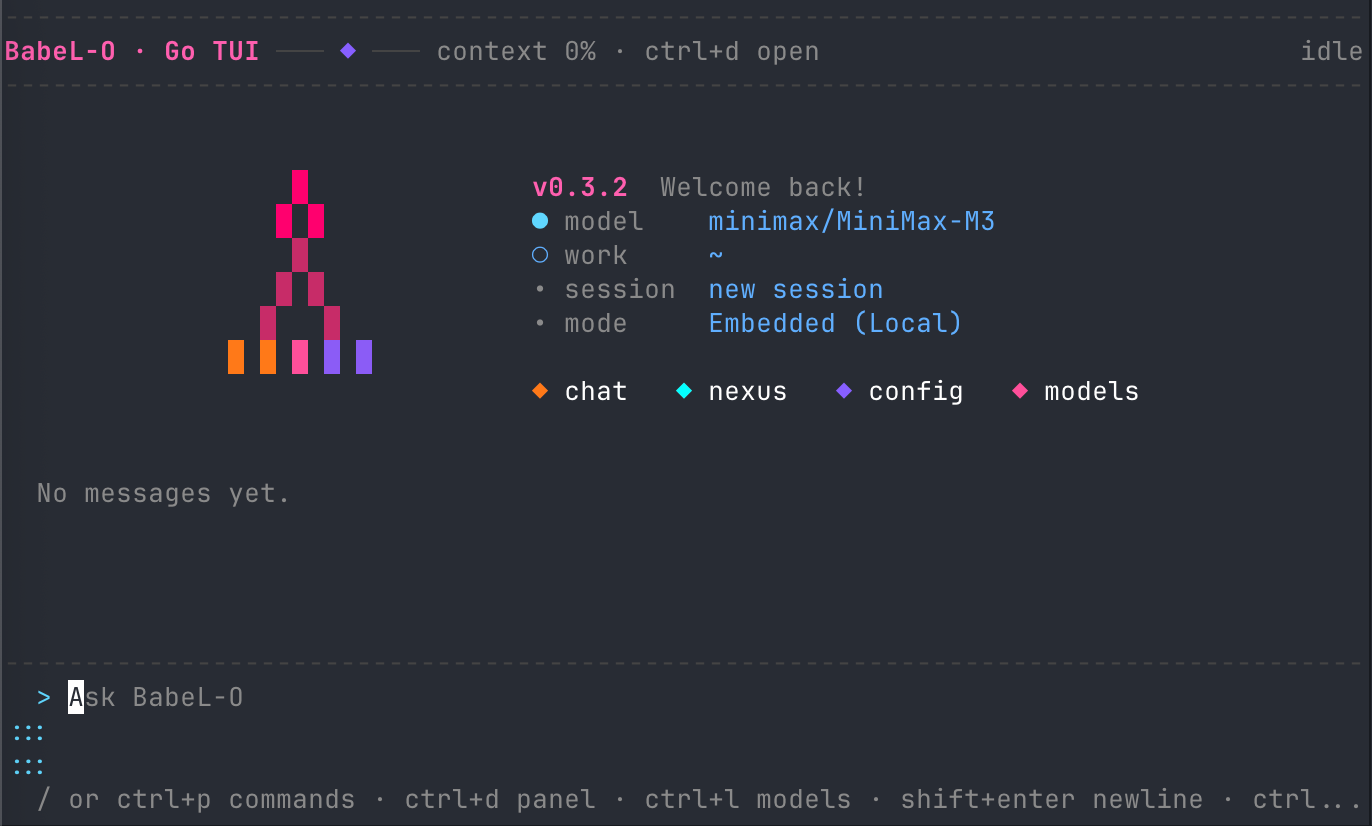
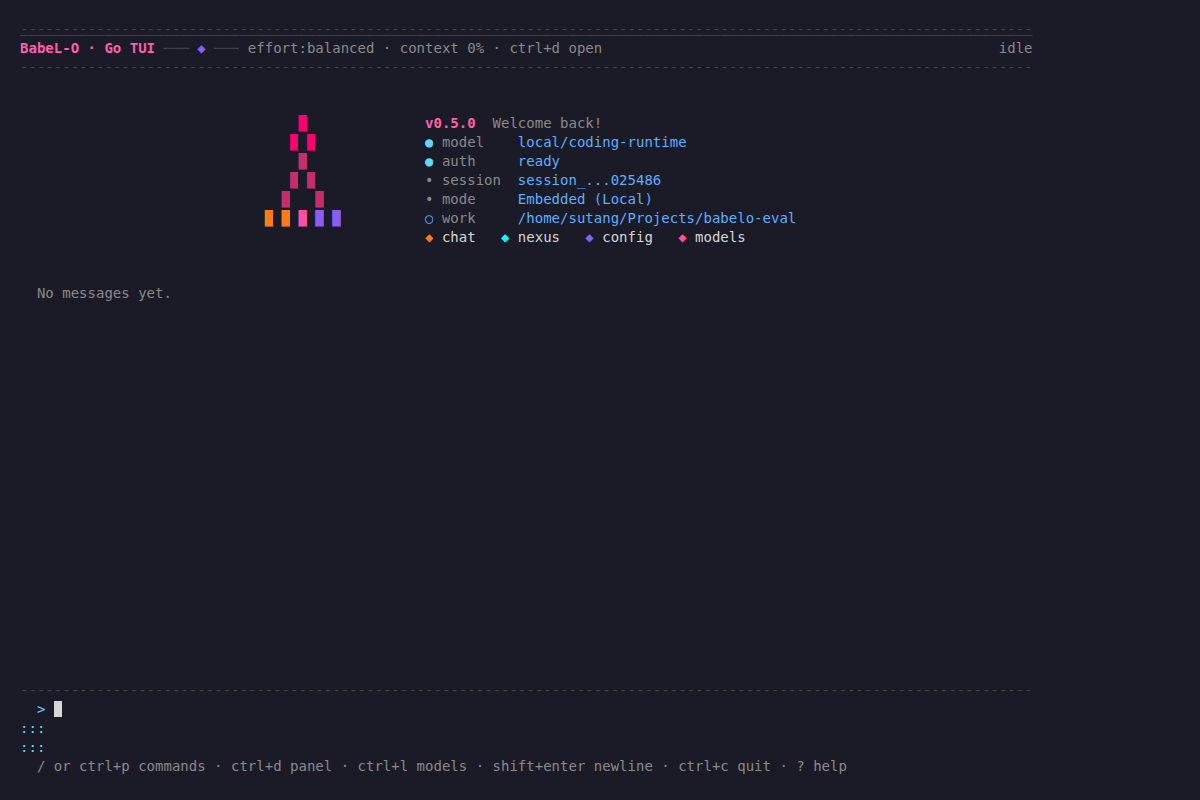
docs(readme): refresh v0.5.0 install path and product screenshot

diff --git a/README.md b/README.md
@@ -12,14 +12,13 @@
 
 <p align="center">
   <a href="https://github.com/SuTang-vain/BabeL-O/releases"><img src="https://img.shields.io/github/v/release/SuTang-vain/BabeL-O" alt="Latest release" /></a>
-  <a href="https://www.npmjs.com/package/babel-o"><img src="https://img.shields.io/npm/v/babel-o" alt="npm version" /></a>
   <a href="https://github.com/SuTang-vain/BabeL-O/actions/workflows/ci.yml"><img src="https://github.com/SuTang-vain/BabeL-O/actions/workflows/ci.yml/badge.svg" alt="CI status" /></a>
   <a href="CONTRIBUTING.md"><img src="https://img.shields.io/badge/contributions-welcome-brightgreen" alt="Contributions welcome" /></a>
   <a href="https://github.com/SuTang-vain/BabeL-O/discussions"><img src="https://img.shields.io/badge/discussions-open-blue" alt="GitHub Discussions" /></a>
 </p>
 
 <p align="center">
-  <img src="docs/assets/product.png" alt="BabeL-O Go TUI screenshot" width="860" />
+  <img src="docs/assets/product.png" alt="BabeL-O v0.5.0 Go TUI screenshot" width="860" />
 </p>
 
 [简体中文 README](README.zh-CN.md)
@@ -49,8 +48,9 @@ terminal into a fragile one-shot chat.
   and reconnect without losing tasks.
   *(Technical: worktree isolation + session persistence + WebSocket reconnect)*
 
-- **10MB standalone binary client** — `bbl go` is a Go TUI binary (~10MB) with no
-  Node.js dependency. Drop it in a container and run.
+- **Small standalone Go TUI client** — `bbl go` is a native Go TUI binary (~14MB).
+  The Nexus daemon still needs Node.js 22+ and native SQLite, so the client can
+  stay thin while sessions remain durable.
   *(Technical: Go Bubble Tea TUI + Node 22+ daemon with native SQLite)*
 
 - **Completes long tasks for real** — Context compaction, tool loop boundaries,
@@ -68,18 +68,35 @@ terminal into a fragile one-shot chat.
   sessions exchange findings, handoffs, decisions, and review requests without
   treating those messages as secret instructions.
 
+### Compaction and context (v0.5.0)
+
+v0.5.0 fixes compaction correctness by default: it reads the newest event
+window, keeps the current instruction, separates state and summary budgets, and
+records a message-based ledger. The default strategy is still `stock` — 90/70
+thresholds, a prose summary, the system boundary, and no retrieval.
+
+Adaptive compaction, deterministic digest, faithful digest, cache-aware
+thresholds, and retrieval pointers are available as opt-in experiments. They
+are not enabled by default, their cost benefits have not been established, and
+retrieval is not recommended for production. Use `/context` to inspect the
+current budget, compaction state, memory, and working set.
+
 ---
 
 ## Quick Start (5 minutes)
 
 > ⚠ **Requires Node.js >= 22.** If your Node is older, upgrade first.
-> For alternative installation methods, see [INSTALLATION.md](docs/INSTALLATION.md).
+> For source builds and platform details, see [INSTALLATION.md](docs/INSTALLATION.md).
 
 ```bash
-# Install globally
-npm install -g babel-o
+# Install the current release
+curl -fsSL https://raw.githubusercontent.com/SuTang-vain/BabeL-O/main/scripts/install.sh | \
+  BBL_VERSION=v0.5.0 bash
 
-# Initialize with interactive setup (coming soon: bbl config init)
+# First-time provider setup (interactive)
+bbl config init
+
+# Or configure non-interactively
 bbl config add anthropic "$ANTHROPIC_API_KEY"
 bbl config use anthropic/claude-sonnet-4-6
 
@@ -93,16 +110,18 @@ See [Common Commands](#common-commands) for more usage examples.
 
 ## Installation
 
-### Recommended: npm global install
+### Recommended: release installer
 
 ```bash
-npm install -g babel-o
+curl -fsSL https://raw.githubusercontent.com/SuTang-vain/BabeL-O/main/scripts/install.sh | \
+  BBL_VERSION=v0.5.0 bash
 bbl go
 ```
 
-Requirements: macOS or Linux, Node.js >= 22.
+Requirements: macOS or Linux, Node.js >= 22. The installer bundles the matching
+Go TUI binary and runs a post-install self-check.
 
-> For alternative installation methods (release installer, from source), see
+> For source builds and platform details, see
 > [INSTALLATION.md](docs/INSTALLATION.md).
 
 ---
@@ -176,7 +195,8 @@ bbl memory doctor
 BabeL-O stores local configuration in `~/.babel-o/config.json`.
 
 Supported providers include `anthropic`, `openai`, `deepseek`, `moonshot`,
-`ollama`, `zhipu`, `minimax`, and `local`.
+`ollama`, `zhipu`, `minimax`, and `local`, plus custom OpenAI-compatible
+providers.
 
 Useful checks:
 
@@ -205,12 +225,14 @@ tools, agents, memory, storage, and observability layers fit together, see
 
 ## Release Notes
 
-As of v0.3.7, the old `bbl chat` TypeScript TUI has been removed from the
-release package. The official interactive entrypoint is `bbl go`; `bbl run`
-remains available for one-shot automation.
+The current release is **v0.5.0** (2026-10-25). It fixes compaction correctness
+by default and adds opt-in compaction experiments; the stock defaults are
+unchanged. See [v0.5.0 release notes](docs/releases/v0.5.0.md) for flags and
+known limitations.
 
-This keeps the install smaller, removes duplicated terminal UI logic, and puts
-future interaction work into the native Go TUI.
+The legacy `bbl chat` TypeScript TUI was removed in v0.3.7. `bbl go` is the
+production interactive entrypoint; `bbl run` remains available for one-shot
+automation.
 
 ## Documentation
 

diff --git a/README.zh-CN.md b/README.zh-CN.md
@@ -12,14 +12,13 @@
 
 <p align="center">
   <a href="https://github.com/SuTang-vain/BabeL-O/releases"><img src="https://img.shields.io/github/v/release/SuTang-vain/BabeL-O" alt="Latest release" /></a>
-  <a href="https://www.npmjs.com/package/babel-o"><img src="https://img.shields.io/npm/v/babel-o" alt="npm version" /></a>
   <a href="https://github.com/SuTang-vain/BabeL-O/actions/workflows/ci.yml"><img src="https://github.com/SuTang-vain/BabeL-O/actions/workflows/ci.yml/badge.svg" alt="CI status" /></a>
   <a href="CONTRIBUTING.md"><img src="https://img.shields.io/badge/contributions-welcome-brightgreen" alt="Contributions welcome" /></a>
   <a href="https://github.com/SuTang-vain/BabeL-O/discussions"><img src="https://img.shields.io/badge/discussions-open-blue" alt="GitHub Discussions" /></a>
 </p>
 
 <p align="center">
-  <img src="docs/assets/product.png" alt="BabeL-O Go TUI 截图" width="860" />
+  <img src="docs/assets/product.png" alt="BabeL-O v0.5.0 Go TUI 截图" width="860" />
 </p>
 
 [English README](README.md)
@@ -46,8 +45,8 @@ bbl go
   后台 daemon 持有状态，客户端断线重连任务不丢。
   *(Technical: worktree isolation + session persistence + WebSocket reconnect)*
 
-- **10MB 无依赖客户端** —— `bbl go` 是 Go TUI 二进制（~10MB），无 Node 依赖，
-  丢到容器里就能跑。
+- **轻量独立 Go TUI 客户端** —— `bbl go` 是约 14MB 的原生 Go TUI 二进制；
+  Nexus daemon 仍需 Node.js 22+ 与原生 SQLite，客户端保持轻薄，会话状态仍然持久。
   *(Technical: Go Bubble Tea TUI + Node 22+ daemon with native SQLite)*
 
 - **真正能完成长任务** —— context compaction、tool loop 边界、权限治理、
@@ -63,18 +62,32 @@ bbl go
 - **跨 session 协作** —— `/session`、`/inbox` 和 SessionChannel 让不同 session 交换 findings、
   handoff、决策、review 请求，但不会把这些消息当作隐藏指令执行。
 
+### 压缩与上下文（v0.5.0）
+
+v0.5.0 默认修复压缩正确性：读取最新事件窗口、保留当前指令、state 与 summary
+使用独立预算，并记录消息级 ledger。默认策略仍是 `stock`：90/70 阈值、prose
+摘要、system boundary、无 retrieval。
+
+adaptive、确定性 digest、faithful digest、cache-aware 阈值和 retrieval 指针
+都是 opt-in 实验能力；默认不开启，成本收益尚未证明，retrieval 不推荐生产使用。
+用 `/context` 查看当前预算、压缩状态、记忆和 working set。
+
 ---
 
 ## 快速开始 (5 分钟)
 
 > ⚠ **要求 Node.js >= 22。** 如果你的 Node 版本较旧，请先升级。
-> 其他安装方式见 [安装指南](docs/INSTALLATION.md)。
+> 从源码构建与平台细节见 [安装指南](docs/INSTALLATION.md)。
 
 ```bash
-# 全局安装
-npm install -g babel-o
+# 安装当前 release
+curl -fsSL https://raw.githubusercontent.com/SuTang-vain/BabeL-O/main/scripts/install.sh | \
+  BBL_VERSION=v0.5.0 bash
 
-# 交互式初始化（即将推出：bbl config init）
+# 首次交互式配置
+bbl config init
+
+# 或非交互式配置
 bbl config add anthropic "$ANTHROPIC_API_KEY"
 bbl config use anthropic/claude-sonnet-4-6
 
@@ -88,16 +101,18 @@ bbl go
 
 ## 安装
 
-### 推荐：npm 全局安装
+### 推荐：release 安装脚本
 
 ```bash
-npm install -g babel-o
+curl -fsSL https://raw.githubusercontent.com/SuTang-vain/BabeL-O/main/scripts/install.sh | \
+  BBL_VERSION=v0.5.0 bash
 bbl go
 ```
 
-要求：macOS 或 Linux，Node.js >= 22。
+要求：macOS 或 Linux，Node.js >= 22。安装脚本会打包匹配的 Go TUI 二进制并执行
+安装后自检。
 
-> 其他安装方式（release 安装脚本、从源码构建）见
+> 从源码构建与平台细节见
 > [安装指南](docs/INSTALLATION.md)。
 
 ---
@@ -169,7 +184,7 @@ bbl memory doctor
 
 BabeL-O 的本地配置保存在 `~/.babel-o/config.json`。
 
-支持的 provider 包括 `anthropic`、`openai`、`deepseek`、`moonshot`、`ollama`、`zhipu`、`minimax` 和 `local`。
+支持的 provider 包括 `anthropic`、`openai`、`deepseek`、`moonshot`、`ollama`、`zhipu`、`minimax` 和 `local`，以及自定义 OpenAI-compatible provider。
 
 常用检查：
 
@@ -192,10 +207,12 @@ BabeL-O 围绕显式边界设计：
 
 ## Release 说明
 
-从 v0.3.7 开始，旧的 `bbl chat` TypeScript TUI 已从 release 包中移除。
-正式交互入口是 `bbl go`；`bbl run` 继续用于一次性自动化和脚本场景。
+当前 release 是 **v0.5.0**（2026-10-25）。它默认修复压缩正确性，并加入 opt-in
+压缩实验能力；stock 默认未变。各开关与已知限制见
+[v0.5.0 发布说明](docs/releases/v0.5.0.md)。
 
-这样可以减小安装包体积，移除重复的终端 UI 逻辑，并把后续交互体验集中到原生 Go TUI。
+旧的 `bbl chat` TypeScript TUI 已在 v0.3.7 移除。`bbl go` 是正式交互入口；
+`bbl run` 继续用于一次性自动化。
 
 ## 文档
 

diff --git a/docs/INSTALLATION.md b/docs/INSTALLATION.md
@@ -6,20 +6,9 @@ This guide covers all installation methods for BabeL-O.
 
 - **Operating System**: macOS or Linux
 - **Node.js**: Version 22 or higher (required for native SQLite support)
-- **Go** (optional): Version 1.23+ for building the Go TUI from source
+- **Go** (optional): Version 1.25+ for building the Go TUI from source
 
-## Method 1: npm Global Install (Recommended)
-
-The fastest way to get started:
-
-```bash
-npm install -g babel-o
-bbl go
-```
-
-This method is ideal for Node.js developers and CI/CD environments.
-
-## Method 2: Release Installer
+## Method 1: Release Installer (Recommended)
 
 The release installer downloads a lightweight package for your platform,
 installs the `bbl` launcher, bundles the matching Go TUI binary, and runs
@@ -33,10 +22,10 @@ bbl go
 ### Install a Specific Version
 
 ```bash
-curl -fsSL https://raw.githubusercontent.com/SuTang-vain/BabeL-O/main/scripts/install.sh | BBL_VERSION=v0.4.2 bash
+curl -fsSL https://raw.githubusercontent.com/SuTang-vain/BabeL-O/main/scripts/install.sh | BBL_VERSION=v0.5.0 bash
 ```
 
-## Method 3: From Source
+## Method 2: From Source
 
 For contributors and those who want the latest development version:
 
@@ -153,19 +142,16 @@ Node.js 22 or higher:
 node --version  # Should be v22.x.x or higher
 ```
 
-### Permission Errors
+### Installer Permission Errors
 
-If you get permission errors during npm install:
+If the release installer cannot write to the default paths, choose a writable
+install directory and HOME:
 
 ```bash
-# Option 1: Use sudo (not recommended for security)
-sudo npm install -g babel-o
-
-# Option 2: Configure npm to use a directory you own
-mkdir -p ~/.npm-global
-npm config set prefix '~/.npm-global'
-# Add to your shell profile:
-export PATH=~/.npm-global/bin:$PATH
+tmp="$(mktemp -d)"
+curl -fsSL https://raw.githubusercontent.com/SuTang-vain/BabeL-O/main/scripts/install.sh | \
+  BBL_VERSION=v0.5.0 BBL_INSTALL_DIR="$tmp/bin" HOME="$tmp/home" bash
+"$tmp/bin/bbl" --version
 ```
 
 ### Go TUI Not Found
@@ -176,8 +162,8 @@ If the Go TUI binary is missing after installation:
 # Rebuild the Go TUI
 cd clients/go-tui && make build
 
-# Or use the TypeScript fallback
-npx tsx src/cli/program.ts go
+# Or run the source CLI (from a source checkout)
+npm run cli -- go
 ```
 
 ## Next Steps
